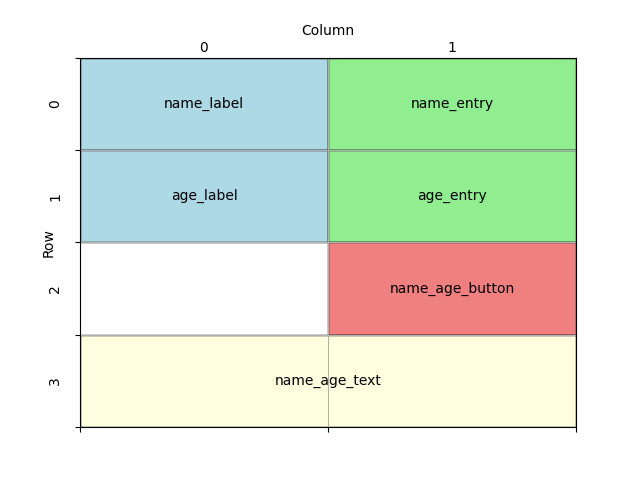
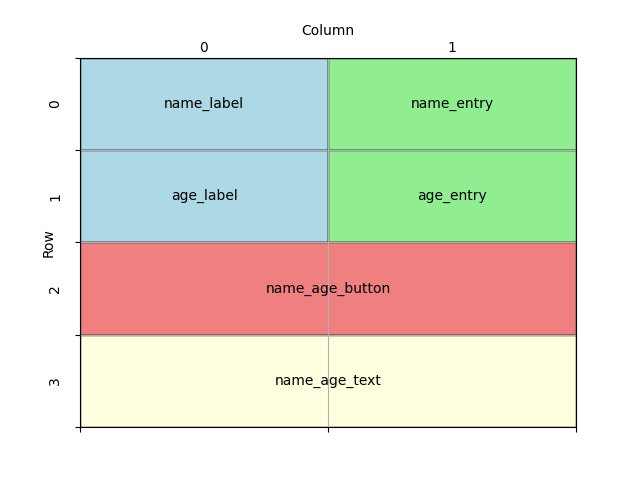
name

Changed region(s): [[0.125, 0.5, 0.8125, 0.7188]]

diff --git a/docs/tk_apps/files/tk_name_age_grid_diagram.py b/docs/tk_apps/files/tk_name_age_grid_diagram.py
@@ -27,7 +27,7 @@ widgets = [
     {"name": "name_entry", "xy": (1, 0), "width": 1, "height": 1, "color": "lightgreen"},
     {"name": "age_label", "xy": (0, 1), "width": 1, "height": 1, "color": "lightblue"},
     {"name": "age_entry", "xy": (1, 1), "width": 1, "height": 1, "color": "lightgreen"},
-    {"name": "name_age_button", "xy": (1, 2), "width": 1, "height": 1, "color": "lightcoral"},
+    {"name": "name_age_button", "xy": (0, 2), "width": 2, "height": 1, "color": "lightcoral"},
     {"name": "name_age_text", "xy": (0, 3), "width": 2, "height": 1, "color": "lightyellow"},
 ]
 

diff --git a/docs/tk_apps/tk_name_age.rst b/docs/tk_apps/tk_name_age.rst
@@ -81,7 +81,7 @@ Grid Placement of widgets on the window:
 
 Design the grid positions:
 
-.. image:: images/inches_to_cm_grid.png
+.. image:: images/name_age_grid.png
     :scale: 100%
 
 - Use the `grid` method to place the widgets in rows and columns in the window.
